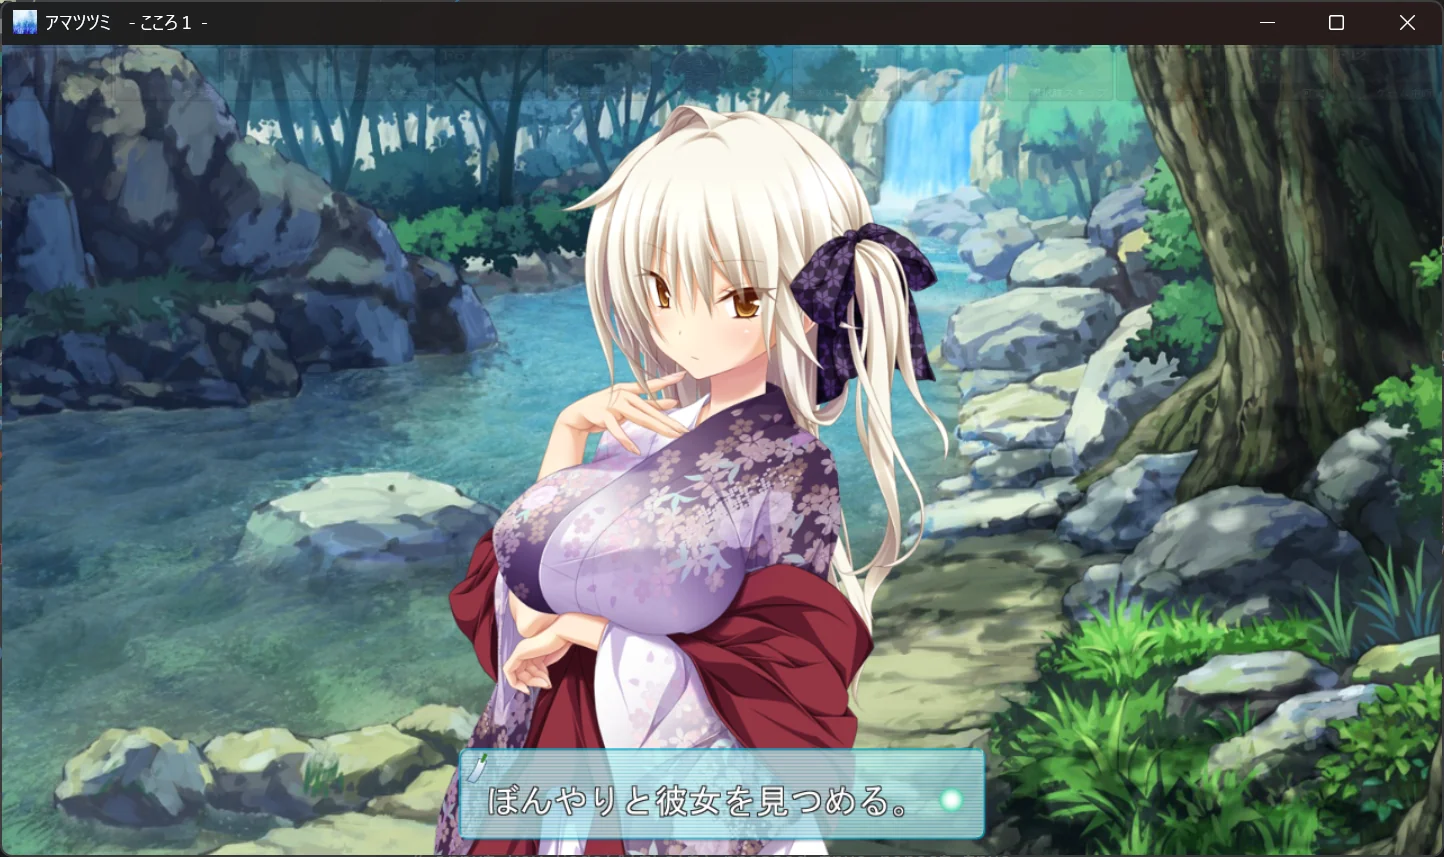
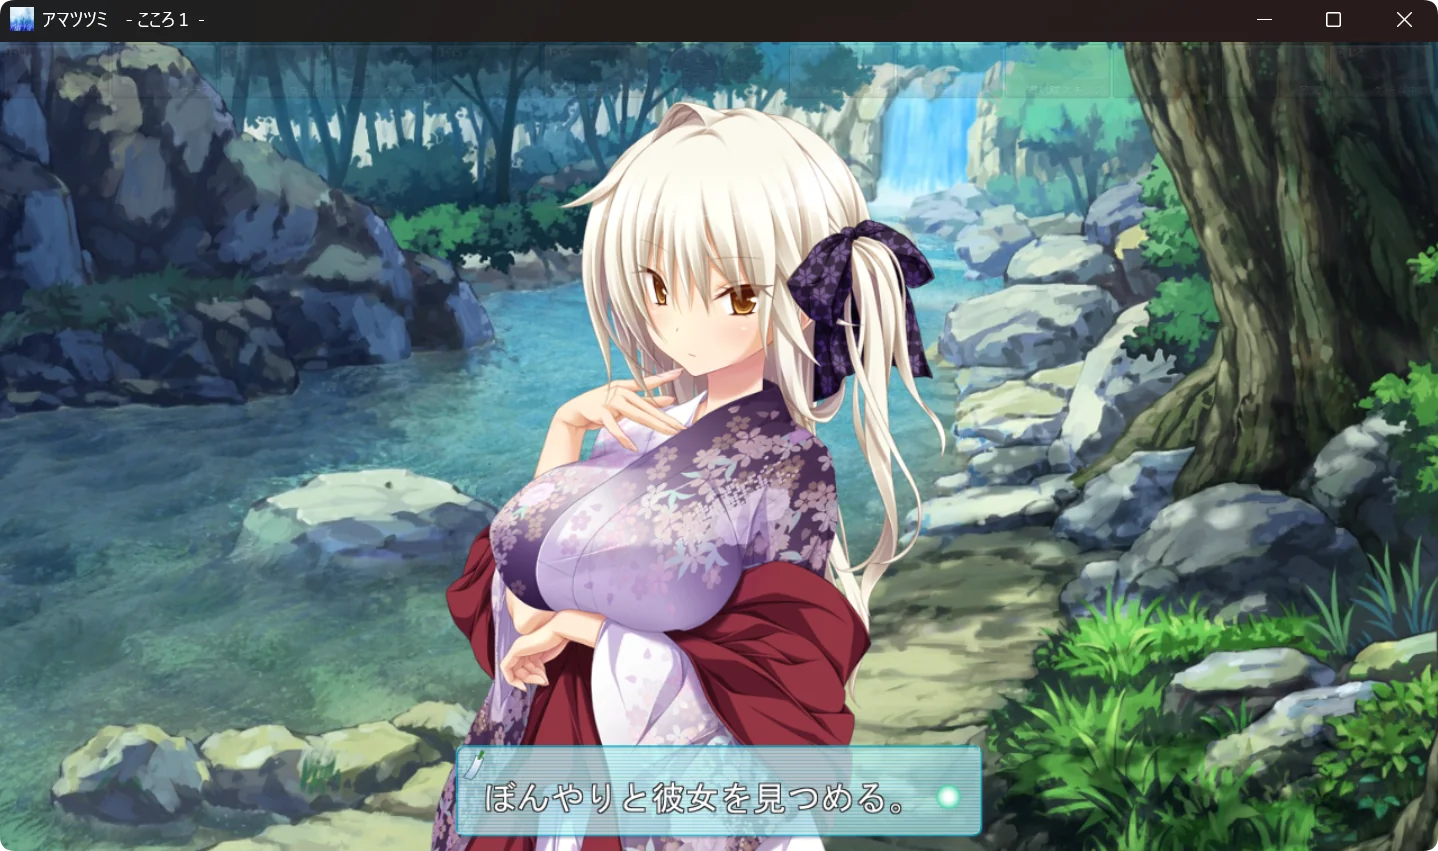
update README

diff --git a/README.md b/README.md
@@ -10,14 +10,26 @@
 <table>
   <tr>
     <td align="center" width="50%">
-      <img src="docs/images/amatsutsumi_windows11.webp" alt="Windows Example" width="100%">
+      <img src="docs/images/amatsutsumi_windows11.webp" alt="Windows Example of Amatsutsumi" width="100%">
       <br><strong>Windows</strong>
       <br><sub>Amatsutsumi</sub>
     </td>
     <td align="center" width="50%">
-      <img src="docs/images/amatsutsumi_ubuntu.webp" alt="Linux Example" width="100%">
+      <img src="docs/images/amatsutsumi_ubuntu.webp" alt="Linux Example of Amatsutsumi" width="100%">
       <br><strong>Linux</strong>
       <br><sub>Amatsutsumi</sub>
+    </td>
+  </tr>
+  <tr>
+    <td align="center" width="50%">
+      <img src="docs/images/aoitori_windows11.webp" alt="Windows Example of Aoitori" width="100%">
+      <br><strong>Windows</strong>
+      <br><sub>Aoitori</sub>
+    </td>
+    <td align="center" width="50%">
+      <img src="docs/images/aoitori_ubuntu.webp" alt="Linux Example of Aoitori" width="100%">
+      <br><strong>Linux</strong>
+      <br><sub>Aoitori</sub>
     </td>
   </tr>
 </table>
